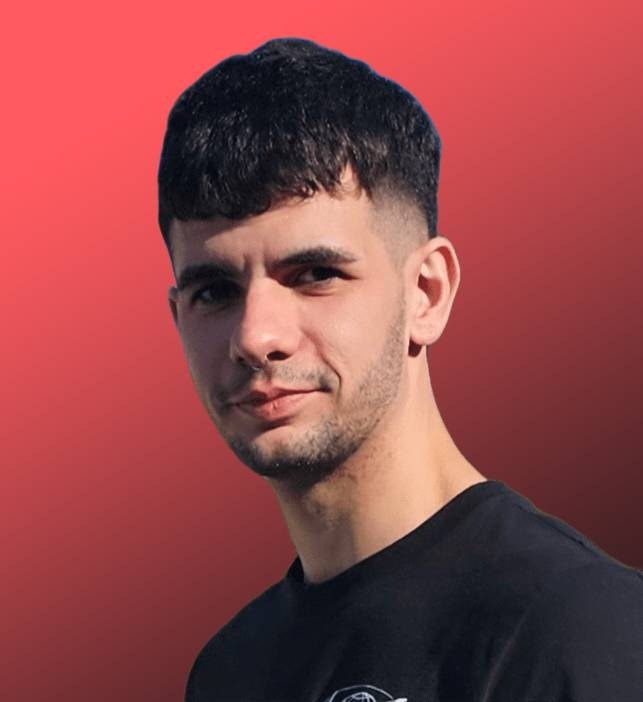
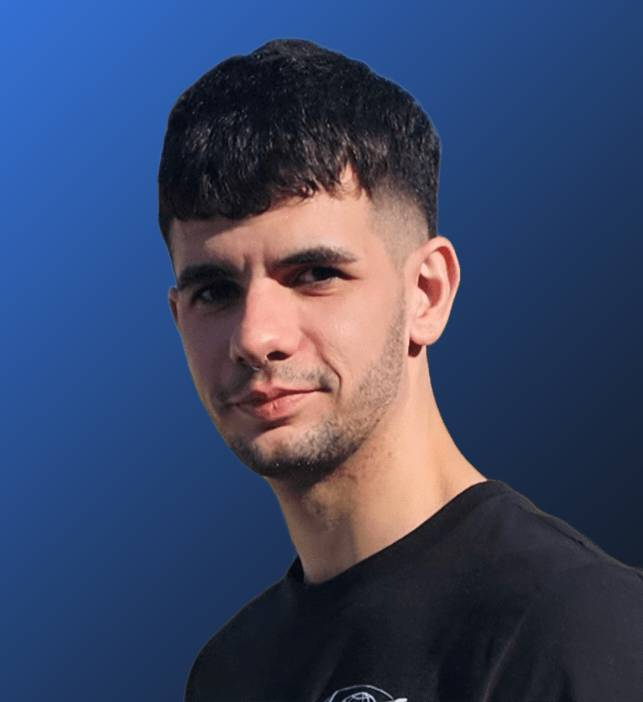
cambio foto de perfil a azul

diff --git a/components/skills.tsx b/components/skills.tsx
@@ -28,7 +28,7 @@ const technicalGroups = [
   },
   {
     category: "Control de versiones",
-    skills: ["Git", "GitHub"],
+    skills: ["Git (GitHub)"],
   },
   {
     category: "Scripting",
@@ -42,7 +42,7 @@ const technicalGroups = [
 
 const softSkills = [
   "Metodolog\u00edas \u00c1giles (Scrum)",
-  "Aprendizaje Continuo",
+  "Aprendizaje autodidacta",
   "Documentaci\u00f3n T\u00e9cnica",
   "Resoluci\u00f3n de Problemas",
 ];
